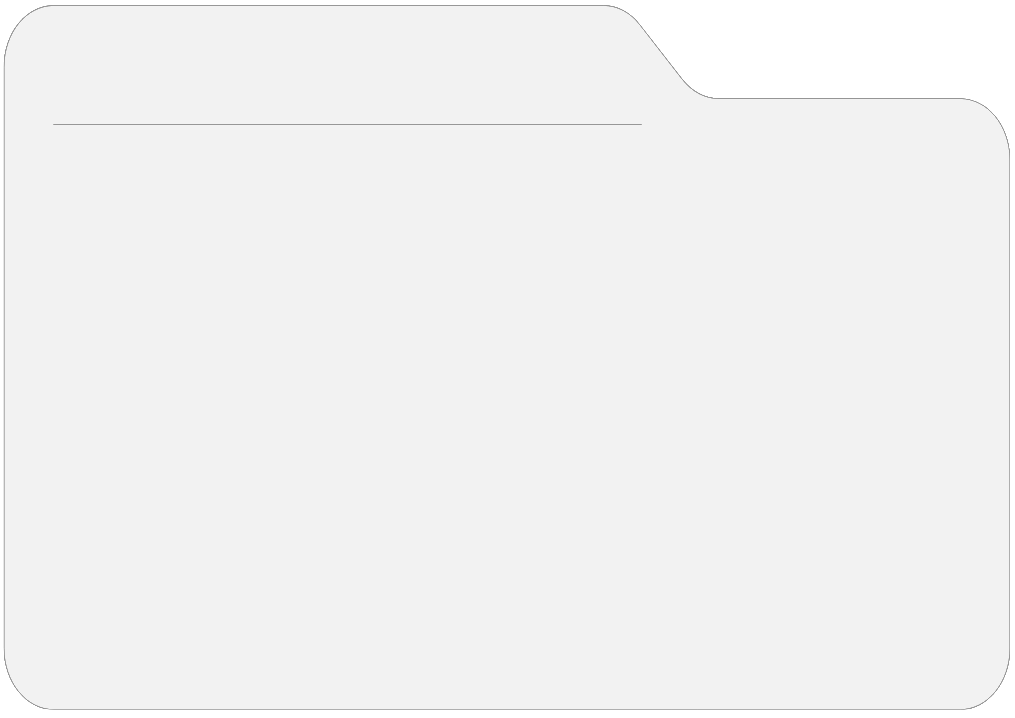
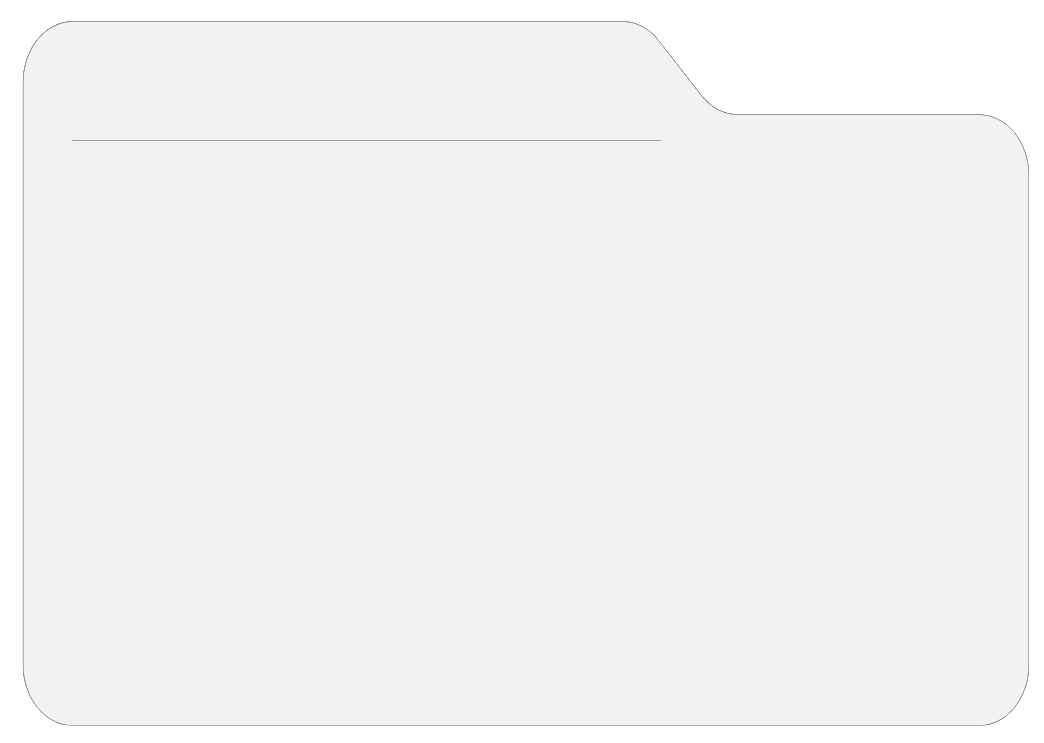
css 수정

diff --git a/src/style/Notification.module.css b/src/style/Notification.module.css
@@ -12,9 +12,10 @@
 
 .folderContainer{
     /* position: relative; */
-    width: clamp(300px, 65vw, 1000px);
-    height: clamp(200px, 80vh, 1000px);
+    width: clamp(300px, 55vw, 1000px);
+    height: clamp(200px, 65vh, 1000px);
     margin: 0 auto;
+    margin-top: 25px;
 
     background-size: 100% 100%;
     background-position: top center;
@@ -35,12 +36,12 @@
 .notificationImg{
     width: 5%;
     height: auto;
-    margin-top: clamp(20px, 10vh, 100px);
+    margin-top: clamp(20px, 4vh, 100px);
     margin-left: clamp(20px, 5vw, 60px);
 }
 
 .notificationTitle{
-    margin-top: clamp(20px, 12vh, 120px);
+    margin-top: clamp(20px, 6vh, 120px);
 }
 
 .headerHr{
@@ -54,9 +55,9 @@
 /* ✅ 알림 리스트 (폴더 높이의 60%만 사용 + 내부 스크롤) */
 .notificationList {
     width: 80%;
-    height: 60%;
+    height: 70%;
     margin: 0 auto;
-    /* margin-top: 10px; */
+    margin-top: 20px;
     overflow-y: auto;
     display: flex;
     flex-direction: column;

diff --git a/src/style/Message.module.css b/src/style/Message.module.css
@@ -12,9 +12,10 @@
 
 .folderContainer{
     /* position: relative; */
-    width: clamp(300px, 65vw, 1000px);
-    height: clamp(200px, 80vh, 1000px);
+    width: clamp(300px, 55vw, 1000px);
+    height: clamp(200px, 65vh, 1000px);
     margin: 0 auto;
+    margin-top: 25px;
 
     background-size: 100% 100%;
     background-position: top center;
@@ -35,12 +36,12 @@
 .messageImg{
     width: 7%;
     height: auto;
-    margin-top: clamp(20px, 10vh, 100px);
+    margin-top: clamp(20px, 5vh, 100px);
     margin-left: clamp(20px, 5vw, 60px);
 }
 
 .messageTitle{
-    margin-top: clamp(20px, 12vh, 120px);
+    margin-top: clamp(20px, 6vh, 120px);
 }
 
 .headerHr{

diff --git a/src/component/Notification.js b/src/component/Notification.js
@@ -134,7 +134,6 @@ function Notification() {
                     <img src={notification} className={styles.notificationImg} />
                     <h2 className={styles.notificationTitle}>알림</h2>
                 </div>
-                <hr className={styles.headerHr} />
 
                 <div className={styles.notificationList}>
                     {notifications.map((noti) => (

diff --git a/src/component/Message.js b/src/component/Message.js
@@ -99,7 +99,6 @@ function Message() {
                     <img src={message} className={styles.messageImg} alt="msg" />
                     <h2 className={styles.messageTitle}>채팅창</h2>
                 </div>
-                <hr className={styles.headerHr} />
 
                 <div className={styles.messageList}>
                     {chatrooms.length === 0 && (

diff --git a/src/component/MyPage.js b/src/component/MyPage.js
@@ -247,7 +247,7 @@ function MyPage() {
     } else if (!place && addressText && addressText.trim()) {
       geocode(addressText).catch(() => { });
     }
-  }, [userAddress, place, addressText, geocode]);
+  }, [userAddress, addressText, geocode]);
 
   // 마커 표시
   useEffect(() => {
